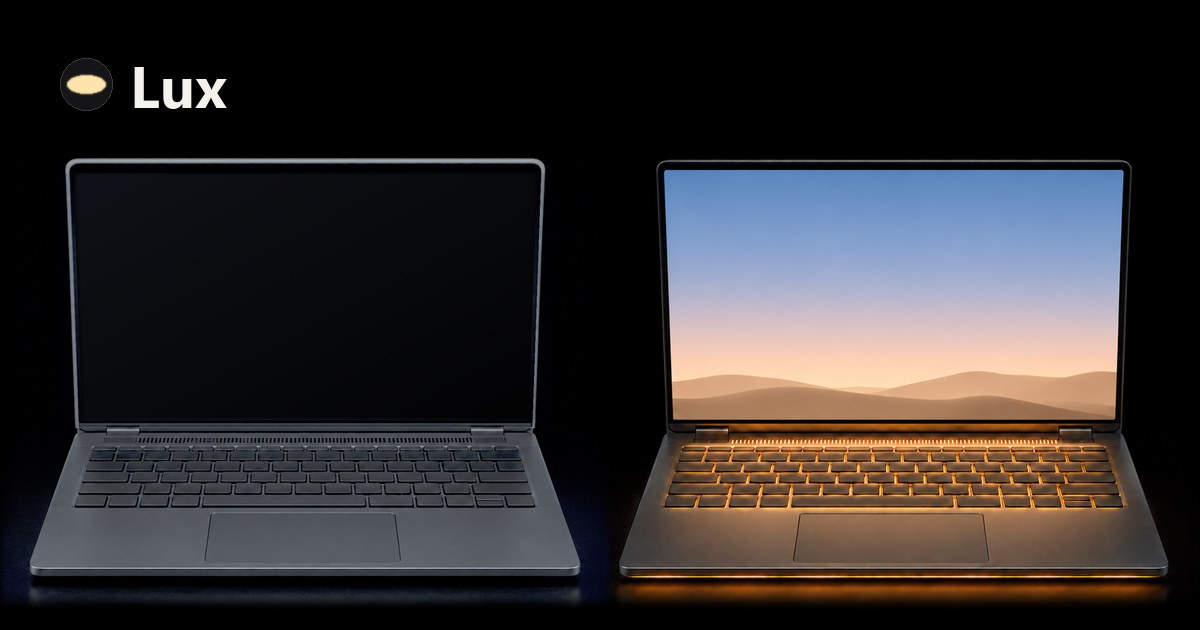
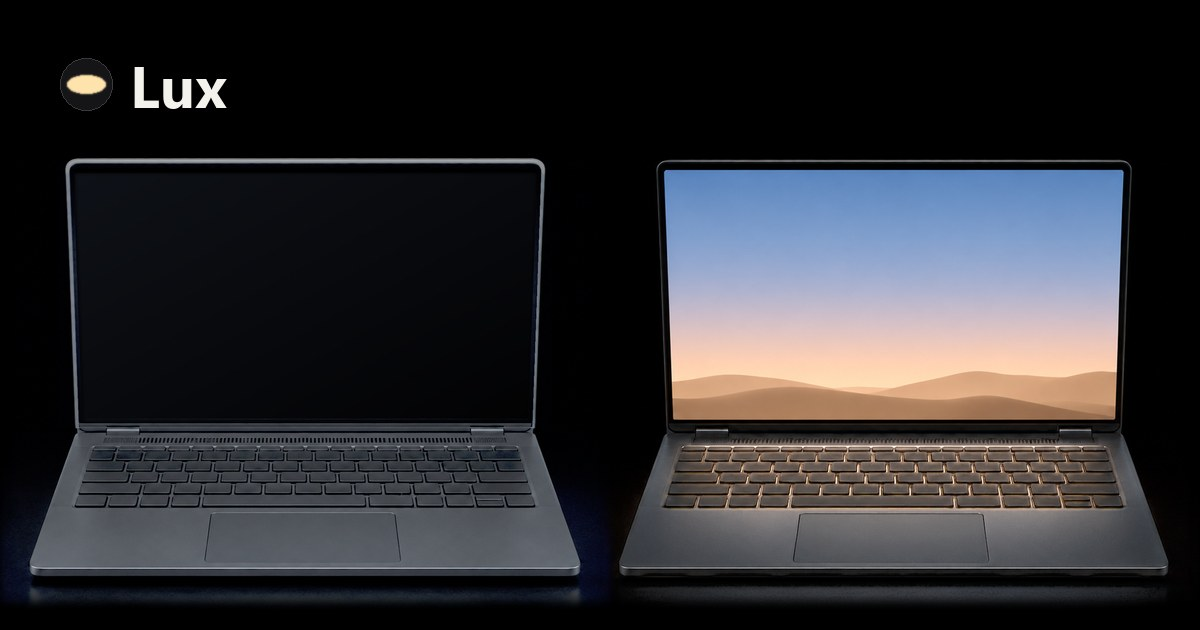
feat(site): end on a calmer picture of the lit laptop, in which the light under the keys is turned down, and drop the shade that dimmed it

Changed region(s): [[0.4933, 0.6635, 0.9867, 0.9651]]

diff --git a/site/src/styles/lux.css b/site/src/styles/lux.css
@@ -336,21 +336,9 @@ button {
     top: calc(var(--nav) + 4.4cqh);
   }
 }
-/* The light under the keys is part of both pictures of this laptop. As the screen lights, a shade over the
-   lower part of the picture, from the hinge down, turns that light down with it: the page behind is black, so
-   the shade only dims. The lit screen is then the brightest thing in view. */
-.ending::after {
-  content: "";
-  position: absolute;
-  inset: 0;
-  background: linear-gradient(transparent 59%, rgba(0, 0, 0, 0.5) 65%, rgba(0, 0, 0, 0.6));
-  opacity: 0;
-  transition: opacity 0.6s ease;
-}
-.ending[data-dawn="true"]::after {
-  opacity: 1;
-  transition: opacity 2.4s ease 0.9s;
-}
+/* The picture with the screen lit is one in which the light under the keys is already turned down, so as it
+   fades in over the picture before it, that light goes down by itself and the lit screen is the brightest
+   thing in view. No shade is laid over it. */
 
 /* The words of a step, over the picture. The block does not fade as one: its parts do, each at its own
    time. The statement comes first and soon; the line of evidence follows it, as proof follows a claim. */

diff --git a/site/tools/make_assets.py b/site/tools/make_assets.py
@@ -83,6 +83,10 @@ LIFT = {
     },
 }
 
+# The laptop with its screen lit is taken from the picture in which the light under the keys is turned
+# down, so that on the last screen the lit display is the brightest thing in view.
+SOURCE = {"laptop-awake": "laptop-awake-calm"}
+
 # The lid of the laptop, in source pixels: the box its rim lies in, and the glass inside the rim.
 LID_BOX = (570, 296, 1830, 986)
 GLASS = [(610, 334), (1790, 334), (1768, 972), (632, 972)]
@@ -185,7 +189,7 @@ def lifted(plates: Path, name: str, lid: bool = False) -> Image.Image:
     """A picture lifted, with its measurements printed. With `lid`, the laptop's lid gets its own lift as well."""
     setting = dict(LIFT[name])
     box = setting.pop("box")
-    before = on_black(plates / f"lux-{name}.png")
+    before = on_black(plates / f"lux-{SOURCE.get(name, name)}.png")
     after = lift(before, **setting)
     if lid:
         after = lid_lift(after)
@@ -245,7 +249,7 @@ def preview(plates: Path, dark: Image.Image) -> Image.Image:
     size = (round(height * LAPTOP_OUT[0] / LAPTOP_OUT[1]), height)
     fade = edge_fade(LAPTOP_OUT, EDGE_FADE).convert("RGB")
     setting = {key: value for key, value in LIFT["laptop-awake"].items() if key != "box"}
-    awake = lift(on_black(plates / "lux-laptop-awake.png"), **setting)
+    awake = lift(on_black(plates / f"lux-{SOURCE['laptop-awake']}.png"), **setting)
     for laptop, left in ((dark, -8), (awake, PREVIEW[0] - size[0] + 8)):
         cut = ImageChops.multiply(laptop.crop(LAPTOP_BOX).resize(LAPTOP_OUT, Image.LANCZOS), fade)
         # Lighter of the two where they overlap, so neither laptop's black margin covers the other.

diff --git a/site/ASSETS.md b/site/ASSETS.md
@@ -8,7 +8,7 @@ Every picture on the site is an illustration of a fictional laptop and a fiction
 | ------------------------------- | ---------------------------------------------------------------------- | -------------------------------------------------------------------------------------------------------------------------------------------------------------------------------------------------------------------------------------- |
 | `src/assets/laptop-dark.webp`   | The laptop before power, 1280 x 960                                    | A generated picture (2400 x 1500), lifted (see below), cropped close to the laptop, edges faded to black, resized and saved as WebP by `tools/make_assets.py`                                                                          |
 | `src/assets/laptop-inside.webp` | The same laptop with its inside awake and its screen black, 1280 x 960 | A generated picture of the same laptop from the same view, lifted (see below), cropped, faded and saved alike, so that one picture can fade into the next                                                                              |
-| `src/assets/laptop-awake.webp`  | The same laptop with its screen lit by a dawn sky, 1280 x 960          | As above, with only its body under the hinge lifted. The sky on its screen is part of the generated picture and is not changed                                                                                                         |
+| `src/assets/laptop-awake.webp`  | The same laptop with its screen lit by a dawn sky, 1280 x 960          | From a second generated picture of the same laptop in which the light under the keys is turned down, with only its body under the hinge lifted. The sky on its screen is part of the generated picture and is not changed                                                                                                         |
 | `src/assets/board-dark.webp`    | The board before power, 1920 x 1200                                    | A generated picture (2400 x 1500), lifted (see below), resized and saved as WebP by the same script                                                                                                                                    |
 | `src/assets/board-awake.webp`   | The same board with every part lit, 1920 x 1200                        | A generated picture of the same board from the same view, so that parts line up with the dark one; resized and saved as WebP by the same script                                                                                        |
 | `src/assets/masks/<part>.webp`  | Eight soft masks, 600 x 375, one per part of the board                 | Composed in code: a polygon per part, drawn and blurred by the same script. The shape is in the alpha channel                                                                                                                          |
